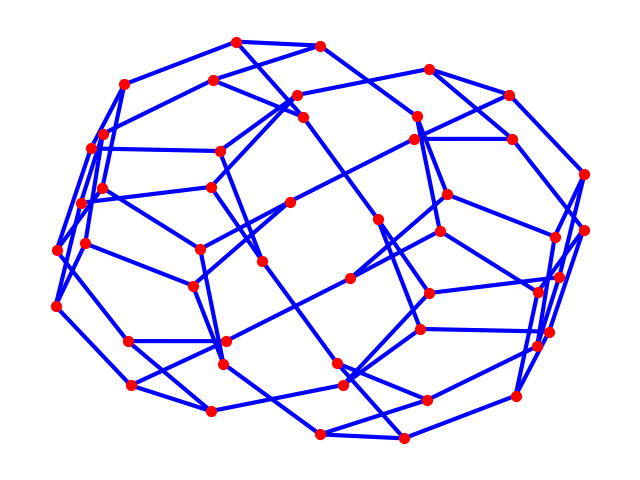
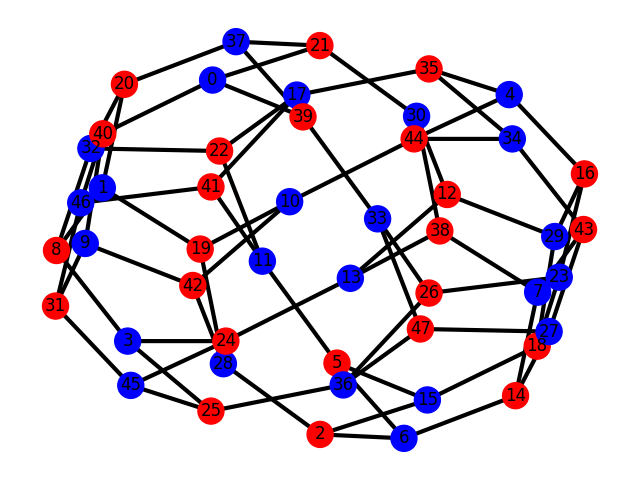
feat: Implemented a class for the plotting and a function that finds a bipartite graph.

Changed region(s): [[0.0625, 0.0625, 0.9375, 0.9375]]

diff --git a/rubiks_cube/plotters.py b/rubiks_cube/plotters.py
@@ -1,0 +1,61 @@
+import copy
+from typing import Any
+
+import networkx as nx
+from networkx import Graph
+
+from rubiks_cube.graph import find_bipartite
+
+
+class GraphPlotter:
+
+    def __init__(self, g: Graph):
+        self.g: Graph = copy.deepcopy(g)  # The current graph
+        # Personal options for the graph
+        self._options: dict[str, Any] = dict(node_color='red', node_size=350, width=3)
+        # Update the labels
+        self._options.update(
+            labels={n: g.nodes[n]["id"] for n in g.nodes},
+        )
+        # Bipartite
+        self.U, self.V = None, None
+
+    def compute_kamada_kawai_layout(self, *args, **kwargs):
+        """
+        Compute the Kamada Kawai layout and save the configuration in the plotting options.
+
+        :param args: arguments for the function
+        :param kwargs: key arguments for the function
+        :return: Nothing.
+        """
+        options = dict(scale=3)
+        options.update(kwargs)
+        self._options.update(
+            pos=nx.kamada_kawai_layout(self.g, *args, **options)
+        )
+
+    def draw(self, *args, **kwargs):
+        """
+        Draw the graph with the desired configurations.
+
+        :param args: Arguments for the draw function
+        :param kwargs: Key arguments for the draw function
+        :return: Nothing.
+        """
+        self._options.update(kwargs)
+        nx.draw(self.g, *args, **self._options)
+
+    def find_bipartite(self, change_color=True, change_layout=False):
+        """
+        Find a bipartite in the graph and plot the colours of the bipartite graph.
+
+        :param change_color: True if you want to change the color in the plot.
+        :param change_layout: True if you want to change the layout in the plot.
+        :return: Nothing.
+        """
+        self.U, self.V = find_bipartite(self.g)
+        if change_color:
+            colors = nx.get_node_attributes(self.g, "color")
+            self._options.update(node_color=colors.values())
+        if change_layout:
+            self._options.update(pos=nx.bipartite_layout(self.g, self.U))

diff --git a/rubiks_cube/graph.py b/rubiks_cube/graph.py
@@ -21,7 +21,7 @@ def make_graph(dims: tuple[int, int, int], permitted_movements: set[CubeMove] = 
     queue = [rc]
     # The graph
     g = nx.Graph()
-    g.add_node(rc, hash_id=hash(rc))
+    g.add_node(rc)
     while queue:  # While d is not empty
         current_rc = queue.pop()  # Actualize the current cube
         # Make every permitted movement and add the new cube to the graph
@@ -29,7 +29,7 @@ def make_graph(dims: tuple[int, int, int], permitted_movements: set[CubeMove] = 
             other_rc = current_rc.make_movements(m)
             if other_rc not in g.nodes:
                 queue.append(other_rc)  # Add to the queue
-                g.add_node(other_rc, hash_id=hash(other_rc))  # Add to the graph
+                g.add_node(other_rc)  # Add to the graph
             if other_rc not in g[current_rc]:
                 g.add_edge(current_rc, other_rc, move=set())
             g[current_rc][other_rc]["move"].add(m)
@@ -42,6 +42,22 @@ def make_graph(dims: tuple[int, int, int], permitted_movements: set[CubeMove] = 
     for i, rc in enumerate(order_list_of_rc(g.nodes)):
         g.nodes[rc]["id"] = i
     return g
+
+
+def find_bipartite(g: nx.Graph):
+    """
+    Find a bipartite in the graph g and label it. Returns the bipartite.
+
+    :param g: A graph.
+    :return: two sets.
+    """
+    U, V = nx.algorithms.bipartite.sets(g)
+    for n in g.nodes:
+        if n in U:
+            g.nodes[n].update(color="blue", bipartite=0)
+        else:
+            g.nodes[n].update(color="red", bipartite=1)
+    return U, V
 
 
 def make_simple_graph(complex_graph: nx.Graph) -> dict[int, set[int]]:

diff --git a/example.py b/example.py
@@ -2,8 +2,9 @@ import networkx as nx
 from matplotlib import pyplot as plt
 
 from rubiks_cube.cube import RubikCube
-from rubiks_cube.graph import make_graph, generate_file
+from rubiks_cube.graph import make_graph
 from rubiks_cube.movements import CubeMove as CM
+from rubiks_cube.plotters import GraphPlotter
 from rubiks_cube.utils import Color
 
 
@@ -42,7 +43,7 @@ def main():
 
 def main2():
     g: nx.Graph = make_graph((3, 2, 1), {CM.R2, CM.D2, CM.U2})
-    generate_file(g)
+    # generate_file(g)
     for i, rc in enumerate(g.nodes):
         print(f"Estado {i = }")
         print(rc)
@@ -51,23 +52,19 @@ def main2():
         neighbors = list(g[rc].keys())
         neighbors.sort(key=lambda x: hash(x))
         print(g[rc])
-    nx.draw_kamada_kawai(
-        g,
-        node_color="red", node_size=50,
-        edge_color="blue", width=3
-    )
+    gp = GraphPlotter(g)
+    gp.compute_kamada_kawai_layout()
+    gp.find_bipartite()
+    gp.draw()
+
     plt.show()
 
 
 def main3():
     g: nx.Graph = make_graph((3, 2, 1), {CM.R2, CM.D2, CM.U2})
-    simple_graph = {}
-    for n in g.nodes:
-        n_id: int = g.nodes[n]["id"]
-        print(n_id)
-        print(g[n])
-        simple_graph[n_id] = {g.nodes[other]["id"] for other in g[n]}
-        print(simple_graph)
+    U, V = nx.algorithms.bipartite.sets(g)
+    print(U, V)
+    print(len(U), len(V))
 
 
 if __name__ == '__main__':

diff --git a/README.md b/README.md
@@ -76,23 +76,23 @@ and
 The described graph can be computed with the following instructions:
 
 ```python
-import networkx as nx
 from matplotlib import pyplot as plt
 
 from rubiks_cube.graph import make_graph
 from rubiks_cube.movements import CubeMove as CM
+from rubiks_cube.plotters import GraphPlotter
 
-g: nx.Graph = make_graph(
+g = make_graph(
     dims=(3, 2, 1),
     permitted_movements={CM.R2, CM.D2, CM.U2}
 )
-nx.draw_kamada_kawai(
-    g,
-    node_color="red", node_size=50,
-    edge_color="blue", width=3
-)
+gp = GraphPlotter(g)
+gp.compute_kamada_kawai_layout()
+gp.find_bipartite()
+gp.draw()
 plt.show()
 ```
 
 And it plots the following graph:
 ![A graph](img/graph.png)
+
